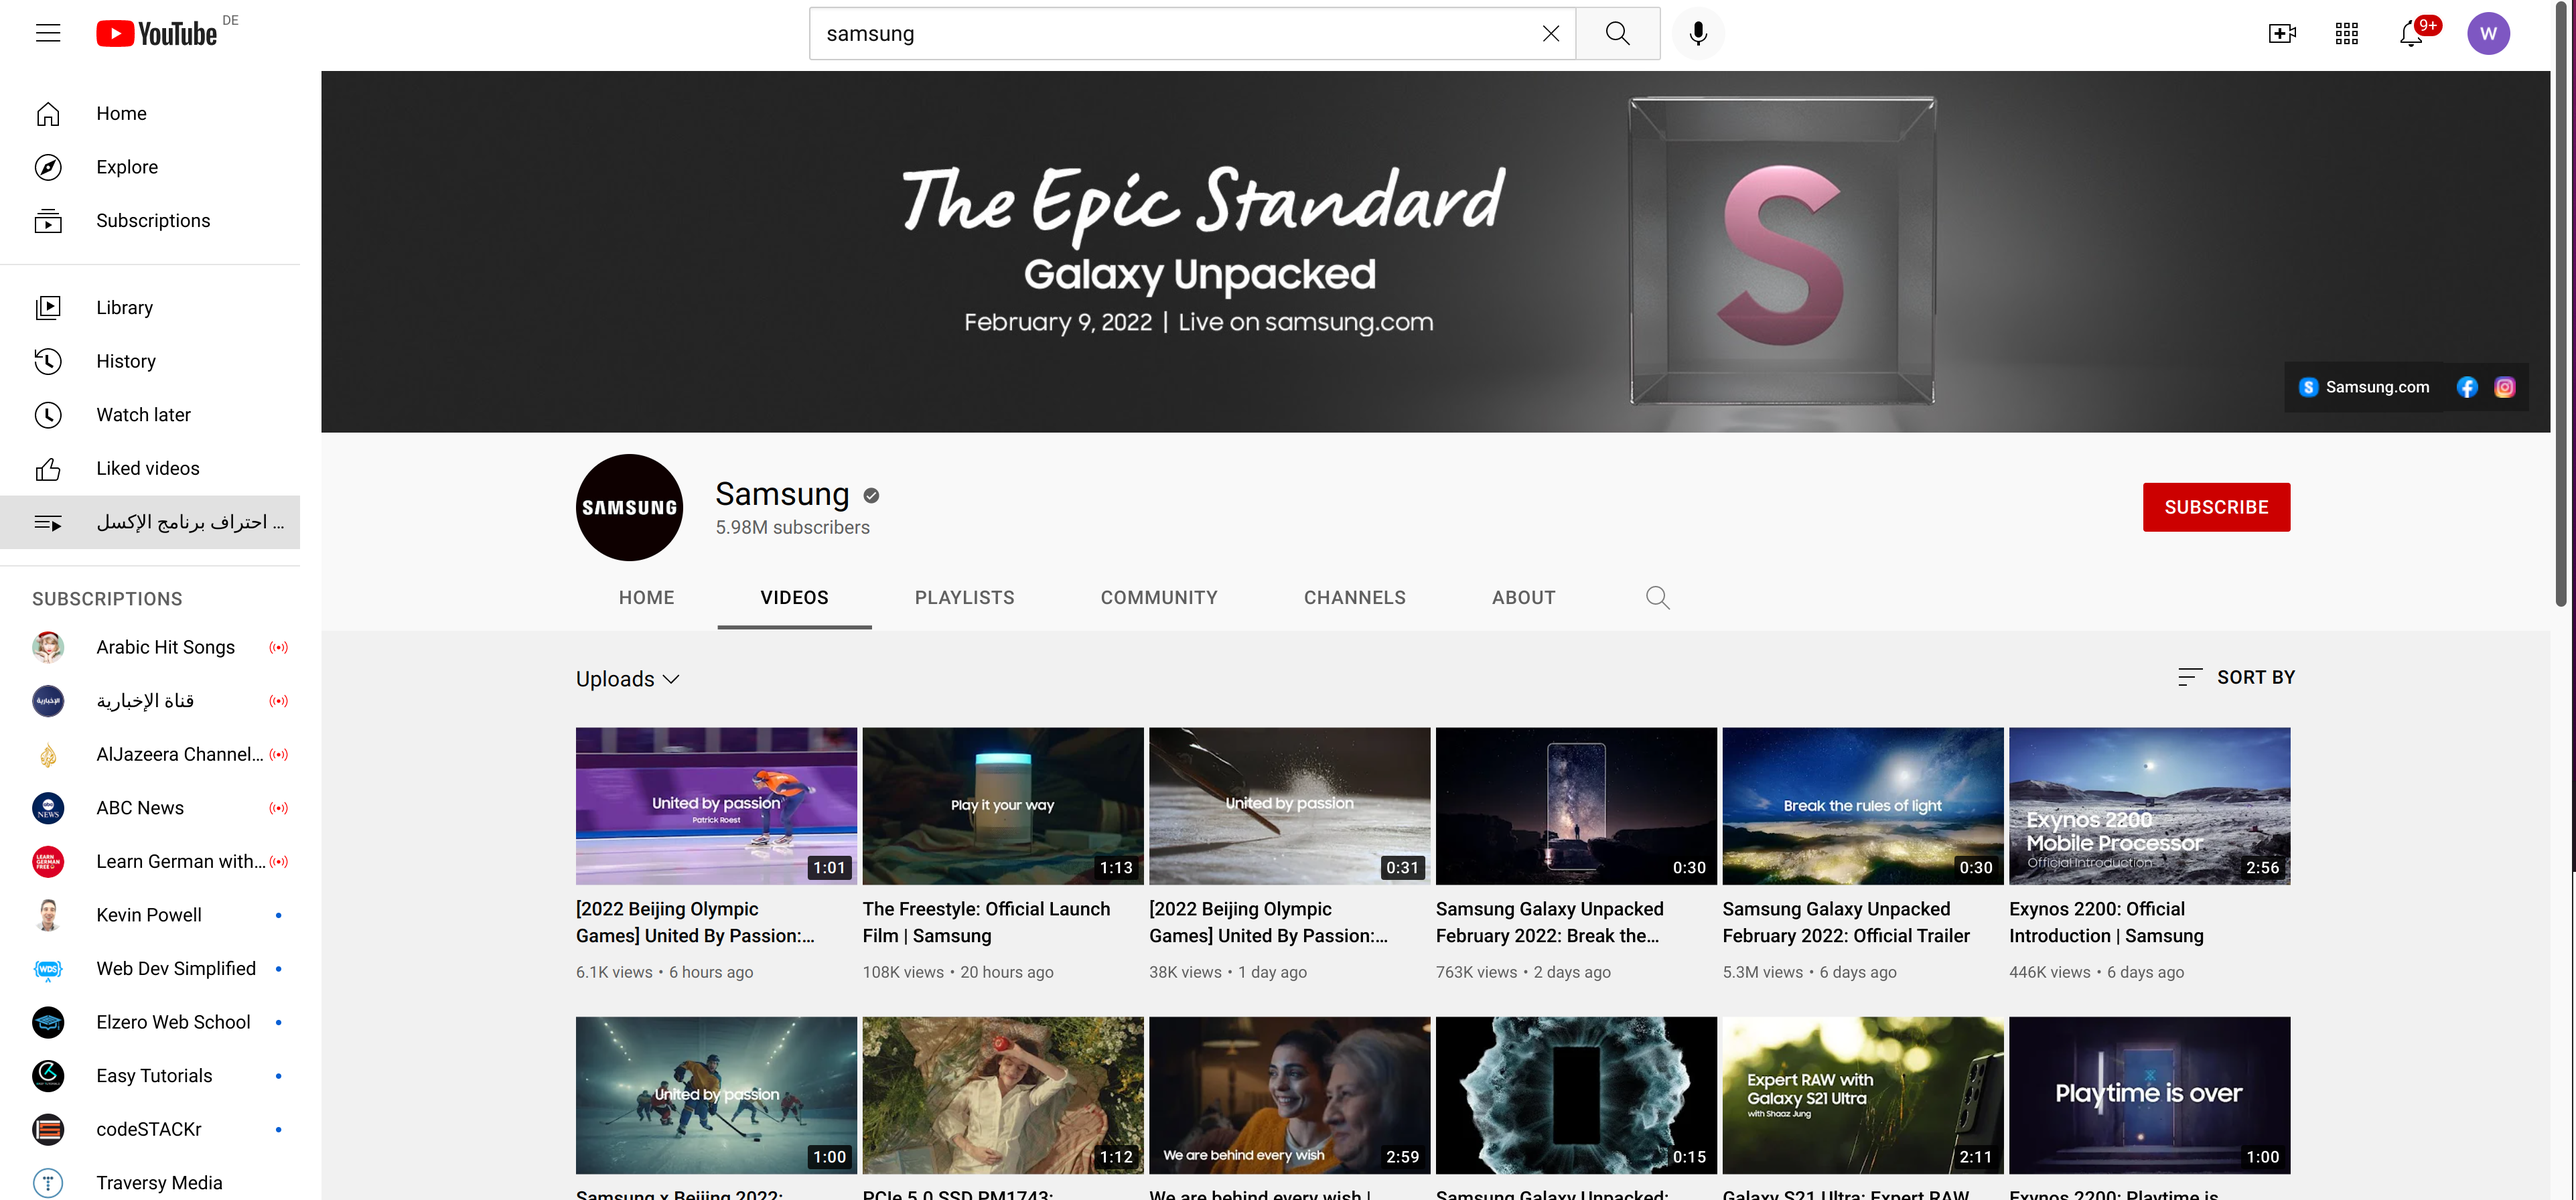
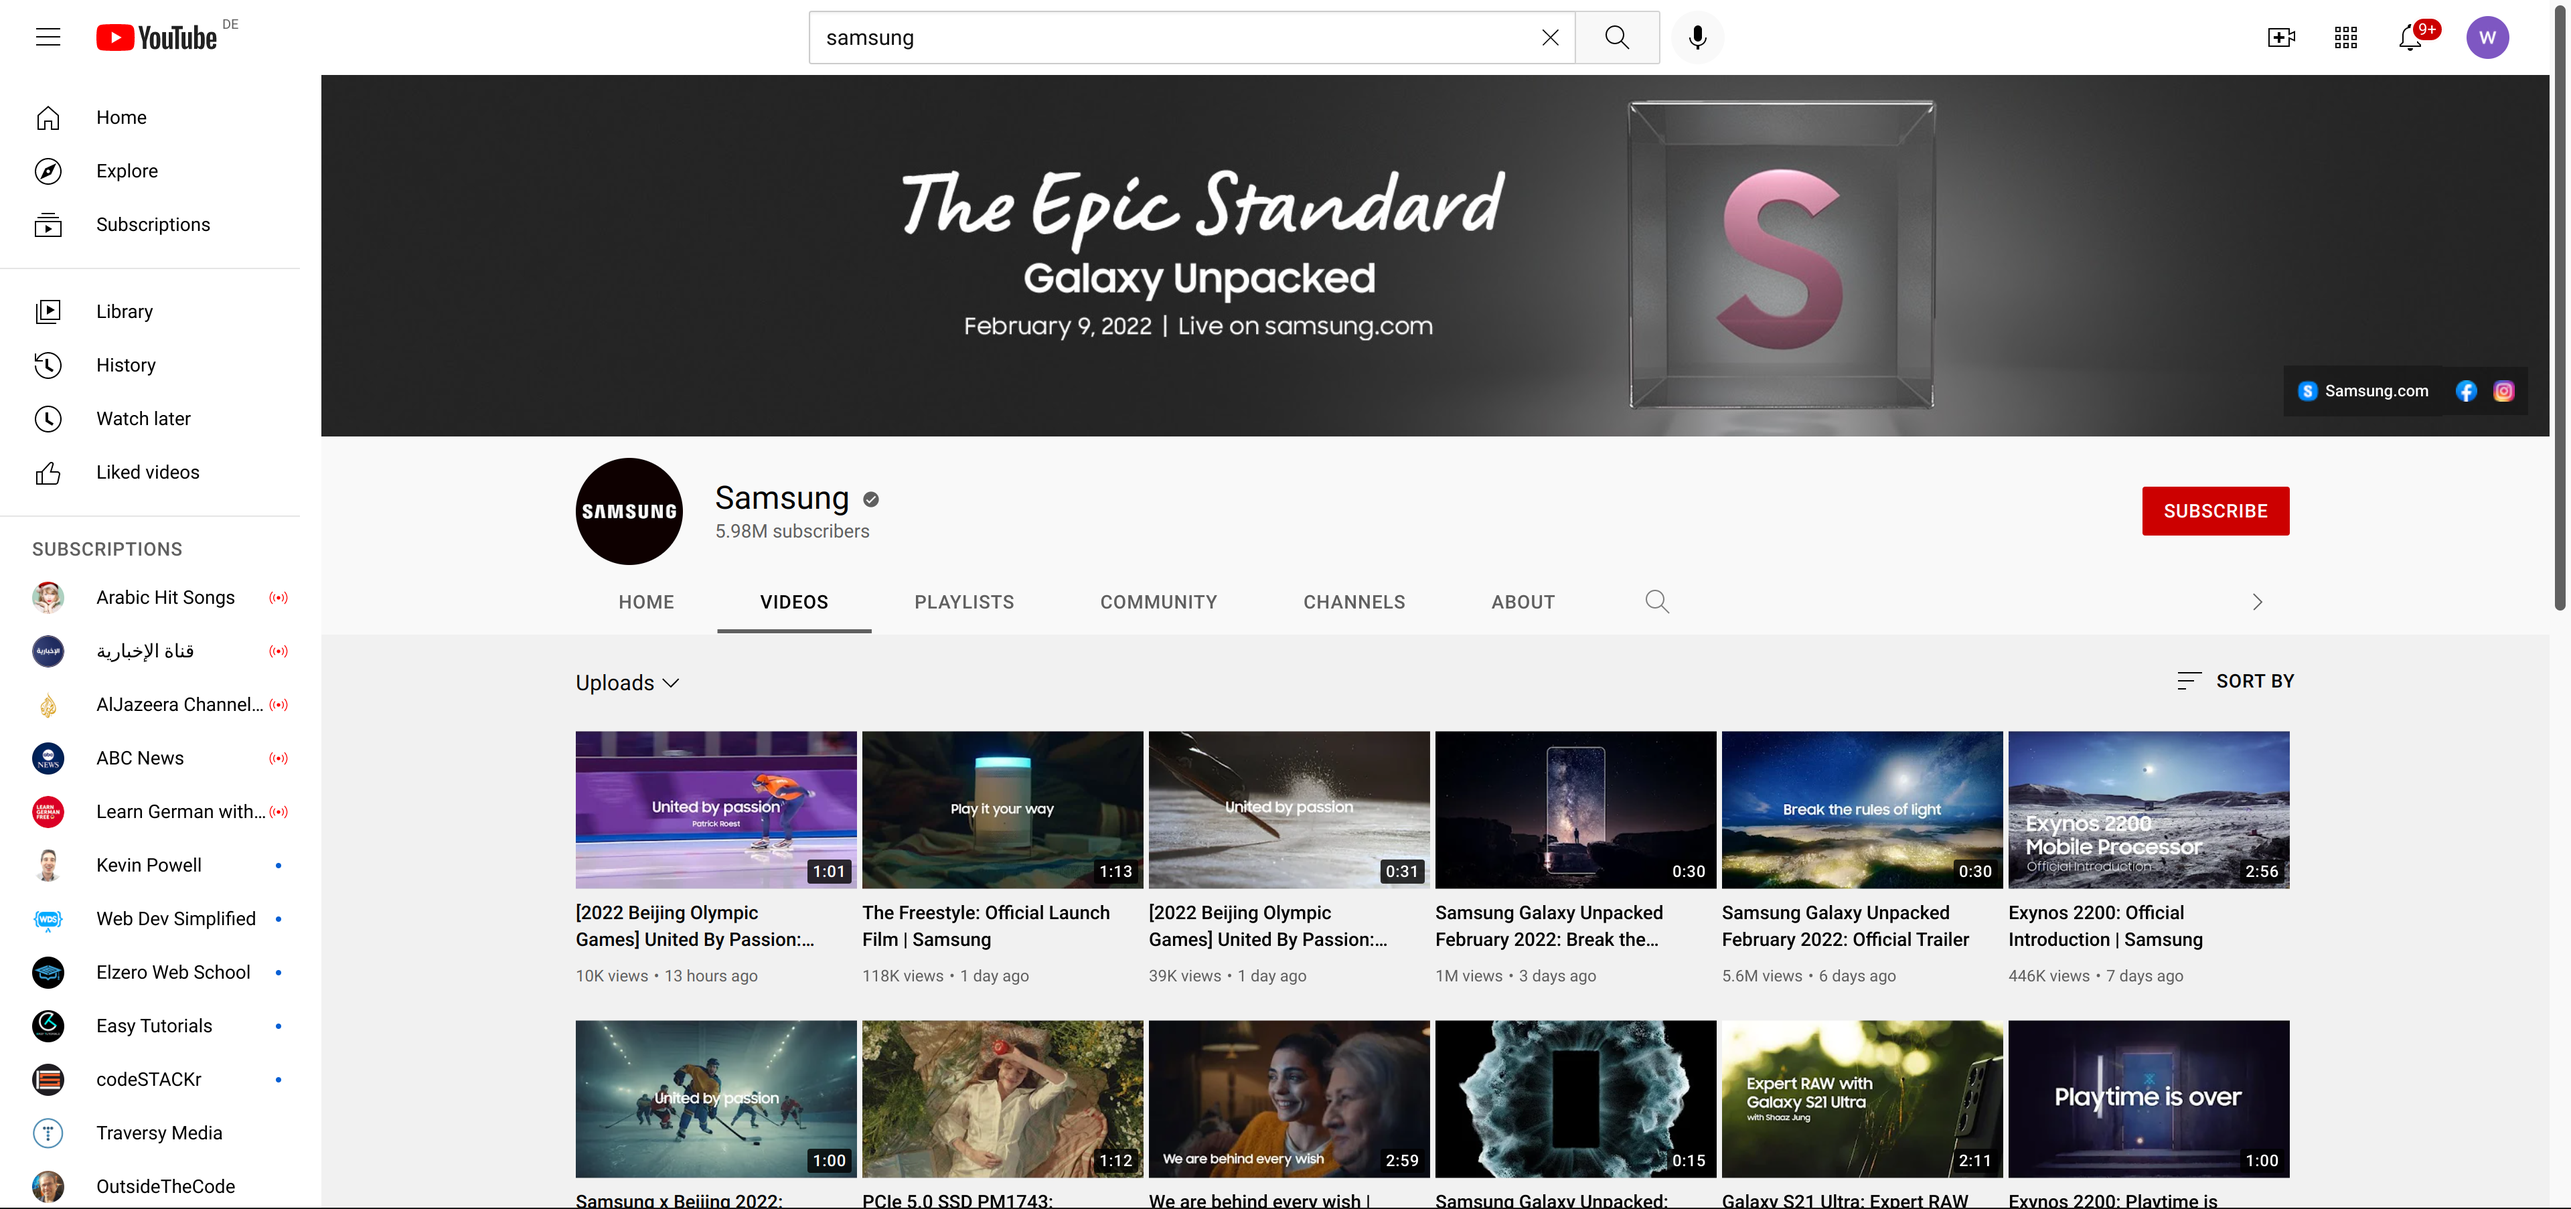
styling the side bar and the second menu

diff --git a/index.html b/index.html
@@ -35,22 +35,58 @@
           src="./img/Screenshot from 2022-02-01 10-00-16.png"
           alt="Samsung"
         />
-      </div> 
+      </div>
       <div class="side-menu">
         <ul>
-          <li><a href="">Home</a></li>
-          <li><a href="">Explore</a></li>
-          <li><a href="">Subscriptions</a></li>
+          <li><a href="#">Home</a></li>
+          <li><a href="#">Explore</a></li>
+          <li><a href="#">Subscriptions</a></li>
         </ul>
         <hr />
         <ul>
-          <li><a href=""></a></li>
-          <li><a href=""></a></li>
-          <li><a href=""></a></li>
-          <li><a href=""></a></li>
-          <li><a href=""></a></li>
+          <li><a href="#">Library</a></li>
+          <li><a href="#">History</a></li>
+          <li><a href="#">Watch later</a></li>
+          <li><a href="#">Liked video</a></li>
         </ul>
-      </div> 
+        <hr />
+        <ul>
+          <li><a href="#">Arabic Hit Songs</a></li>
+          <li><a href="#">قناة الإخبارية</a></li>
+          <li><a href="#">Aljazeera Channel</a></li>
+          <li><a href="#">ABC News</a></li>
+          <li><a href="#">Learn German With</a></li>
+          <li><a href="#">Kein Pwell</a></li>
+          <li><a href="#">Web Dev Simplified</a></li>
+          <li><a href="#">Elzero Web School</a></li>
+          <li><a href="#">Easy Tutorials</a></li>
+          <li><a href="#">codeSTACKr</a></li>
+          <li><a href="#">Traversy Media</a></li>
+          <li><a href="#">OutsideTheCode</a></li>
+        </ul>
+      </div>
+      <div class="second-menu">
+        <div class="samsung-logo">
+            <div></div>
+          <span>Samsung</span> 
+          <div></div>
+          <input type="button" value="SUBSCRIBE" />
+          
+        </div>
+        <div class="second-nav-bar">
+          <ul>
+            <li><a href="#">HOME</a></li>
+            <li><a href="#">VIDEOS</a></li>
+            <li><a href="#">PLAYLISTS</a></li>
+            <li><a href="#">COMMUNITY</a></li>
+            <li><a href="#">CHANNELS</a></li>
+            <li><a href="#">ABOUT</a></li>
+            <li><a href="#"><i class="fas fa-search"></i></a></li>
+          </ul>
+          
+        </div>
+        
+      </div>
 
       <div class="videos">
         <section class="video-section">
@@ -66,12 +102,77 @@
             <a href="" class="thumbnail"
               ><img
                 class="thumbnail-img"
+                src="./img/"
+                alt=""
+            /></a>
+          </div>
+          <div class="video-container">
+            <a href="" class="thumbnail"
+              ><img
+                class="thumbnail-img"
                 src="./img/mqdefault_6s (10).webp"
                 alt=""
             /></a>
           </div>
+          <div class="video-container">
+            <a href="" class="thumbnail"
+              ><img
+                class="thumbnail-img"
+                src="./img/mqdefault_6s (10).webp"
+                alt=""
+            /></a>
+          </div>
+          <div class="video-container">
+            <a href="" class="thumbnail"
+              ><img
+                class="thumbnail-img"
+                src="./img/mqdefault_6s (10).webp"
+                alt=""
+            /></a>
+          </div>
+          <div class="video-container">
+            <a href="" class="thumbnail"
+              ><img
+                class="thumbnail-img"
+                src="./img/mqdefault_6s (10).webp"
+                alt=""
+            /></a>
+          </div>
+          <div class="video-container">
+            <a href="" class="thumbnail"
+              ><img
+                class="thumbnail-img"
+                src="./img/mqdefault_6s (10).webp"
+                alt=""
+            /></a>
+          </div>
+          <div class="video-container">
+            <a href="" class="thumbnail"
+              ><img
+                class="thumbnail-img"
+                src="./img/mqdefault_6s (10).webp"
+                alt=""
+            /></a>
+          </div>
+          <div class="video-container">
+            <a href="" class="thumbnail"
+              ><img
+                class="thumbnail-img"
+                src="./img/mqdefault_6s (10).webp"
+                alt=""
+            /></a>
+          </div>
+          <div class="video-container">
+            <a href="" class="thumbnail"
+              ><img
+                class="thumbnail-img"
+                src="./img/mqdefault_6s (10).webp"
+                alt=""
+            /></a>
+          </div>
+          
+          
         </section>
-        
       </div>
     </div>
   </body>

diff --git a/css/main.css b/css/main.css
@@ -1,39 +1,50 @@
 .main-body {
   display: grid;
-  grid-template-columns:  repeat(7,1fr);
-  /* grid-template-rows: repeat(auto-fill); */
-grid-template-areas: 
-"side-bar top-photo top-photo top-photo top-photo top-photo top-photo"
-"side-bar video video video video video video"
-"side-bar video video video video video video"
-;
+  grid-template-columns: 210px auto;
+   grid-template-rows: repeat(auto-fill); 
+  grid-template-areas:
+    "side-bar top-photo "
+    "side-bar second-menu "
+    "side-bar video "
+    "side-bar video";
 }
+.top-pic {
+    grid-area: top-photo;
+  }
+  .side-menu {
+    grid-area: side-bar;
+  }
+  .video-section {
+    grid-area: video;
+  }
 
-
+.videos {
+  background-color: var(--videos-container-bg-color);
+  grid-row-start: 3;
+  position: relative;
+  /* left: 7rem; */
+  width: 99%;
+}
 .top-pic img {
   width: 100%;
+  height: 170px;
 }
 .video-section {
+    width: 50%;
   display: grid;
-  grid-template-columns: repeat(6,1fr);
+  position: relative;
+  left: 5.2rem;
+  grid-template-columns: repeat(5, 1fr);
   gap: 0.3rem;
   grid-template-rows: 1fr 1fr;
 }
 .video-container {
-  width: 250px;
+  width: 195px;
   height: 120px;
-  border: 1px red solid;
+  
 }
 .thumbnail-img {
   width: 100%;
   height: 100%;
 }
-.top-pic {
-  grid-area: top-photo;
-}
-.side-menu{
-    grid-area: side-bar;
-}
-.video-section{
-    grid-area: video;
-}
+

diff --git a/css/second-menu.css b/css/second-menu.css
@@ -1,0 +1,47 @@
+.second-menu {
+  width: 80%;
+  height: 7rem;
+  display: grid;
+  grid-template-columns: 1fr;
+  grid-template-rows: 1fr 1fr;
+  grid-row-start: 2;
+}
+
+.samsung-logo {
+  display: grid;
+  grid-template-columns: 0.3fr 2fr 1fr 20px
+}
+.samsung-logo input[type="button"] {
+  background-color: #cc0000;
+  color: white;
+  border: none;
+  height: 2rem;
+  width: 6.5rem;
+  border-radius: 5%;
+  align-self: center;
+  
+}
+.samsung-logo span {
+  background-color: black;
+  display: flex;
+  color: white;
+  height: 4rem;
+  width: 4rem;
+  border-radius: 100%;
+  font-size: 14px;
+  align-items: center;
+  justify-content: center;
+}
+.second-nav-bar ul {
+  display: flex;
+  position: relative;
+  left: 6.3em;
+
+}
+.second-nav-bar .fa-search{
+    /* background-color: black; */
+    position: relative;
+    font-size: 1.3rem;
+    left: 2rem;
+    color:#6060607c ;
+} 

diff --git a/css/style.css b/css/style.css
@@ -1,9 +1,11 @@
+@import url('https://fonts.googleapis.com/css2?family=Lobster&family=Roboto:wght@100&display=swap');
 @import url(./header.css);
 @import url(./main.css);
 @import url(./nav.css);
 @import url(./side-nav.css);
 @import url(./var.css);
 @import url(./anchor.css);
+@import url(./second-menu.css);
 @import url(../fontawesome-free-5.15.4-web/fontawesome-free-5.15.4-web/css/all.css);
 *{
     box-sizing: border-box;

diff --git a/css/side-nav.css b/css/side-nav.css
@@ -1,0 +1,18 @@
+ul li{
+margin: 1rem; 
+list-style: none;
+font-family: var(--font-family);
+
+
+
+}
+ul li a{
+   
+   font-weight: bold;
+   font-size: var(--side-nav-font-size);
+
+}
+hr{
+    border: .5px #ccc solid;
+    width: 90%;
+}

diff --git a/css/var.css b/css/var.css
@@ -1,4 +1,7 @@
 :root{
     font-size: 16px;
-    --videos-container-bg-color:#f9f9f9;
+    --videos-container-bg-color:#f1f1f1;
+    --font-size:10px;
+    --font-family: Roboto, Arial, sans-serif;
+    --side-nav-font-size: 14px;
 }

diff --git a/css/header.css b/css/header.css
@@ -25,7 +25,7 @@ header{
     width: 60%;
     height: 2rem;
 } 
-.fa-search {
+ header .fa-search {
     
     width: 4rem;
     height: 1.5rem;

diff --git a/css/anchor.css b/css/anchor.css
@@ -3,5 +3,6 @@ a:visited,
 a:link {
   text-decoration: none;
   color: black;
+  font-size: ;
   
 }
